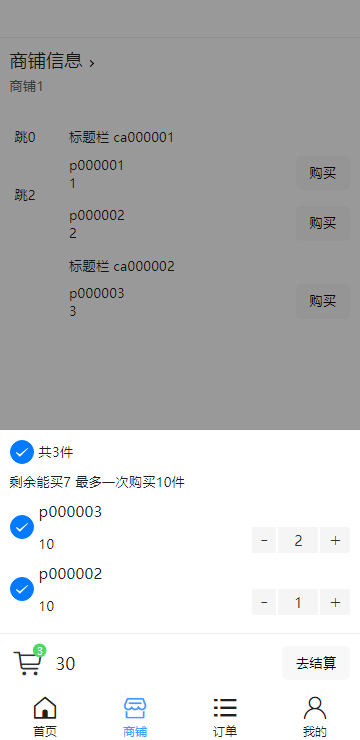
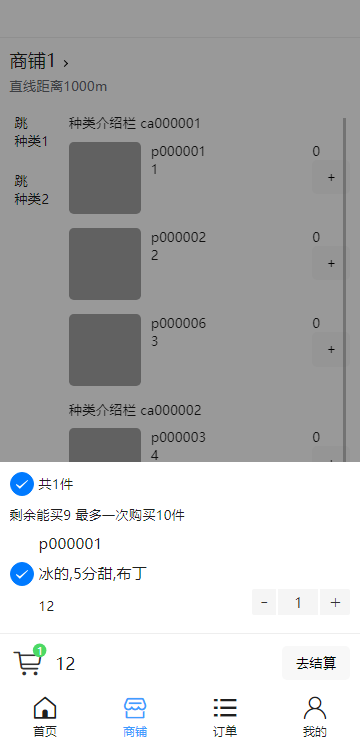
update

diff --git a/README.md b/README.md
@@ -10,8 +10,17 @@ android  uniapp  都会做 java 后端也会
 
 <a href="/crm/凌柏超-web前端-个人简历2.pdf" download="凌柏超的个人简历">下载个人简历</a>
 
-自制快速代码编辑器
-![](/articles/images/electron_main.png)
+<!-- 自制快速代码编辑器
+![](/articles/images/electron_main.png) -->
+
+<xy-tab>
+    <xy-tab-content label="自制快速代码编辑器">
+<img src="/articles/images/electron_main.png" />
+    </xy-tab-content>
+    <xy-tab-content label="uniapp 制作的店铺页面">
+    <img src="/articles/images/webapp_cart.png" />
+    </xy-tab-content>
+</xy-tab>
 
 
 自己在toml基础上加强 开发了自己的配置语言 mytoml

diff --git a/articles/uniapp.md b/articles/uniapp.md
@@ -5,3 +5,4 @@
 并且确保了 写少量代码 即可实现一个页面
 
 ![](/articles/images/electron_main.png)
+
